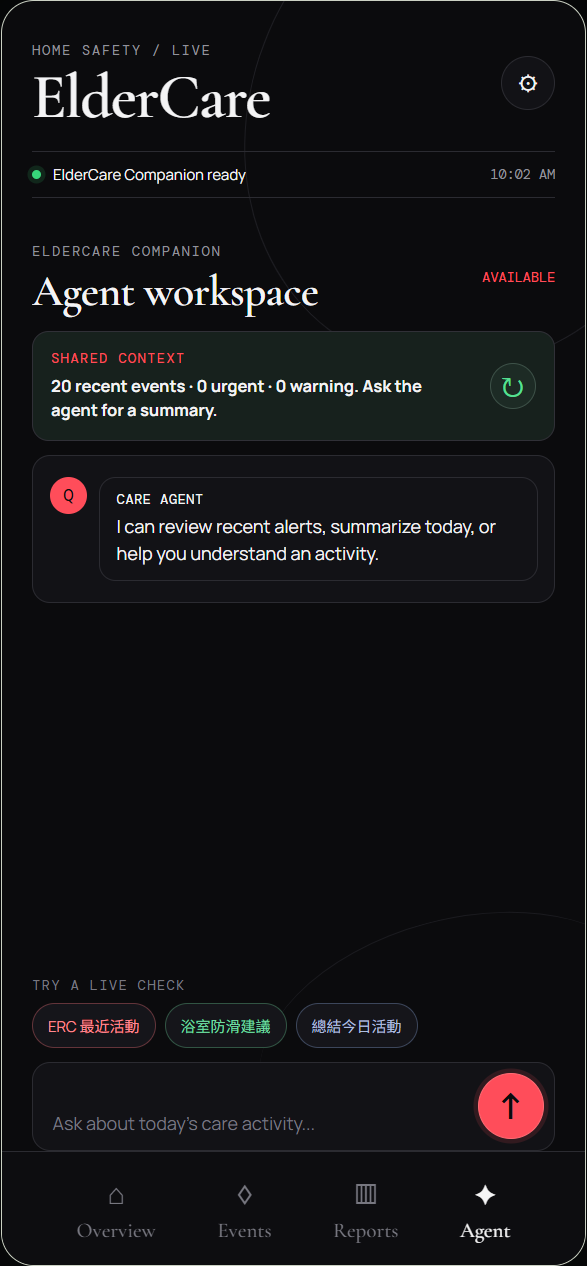
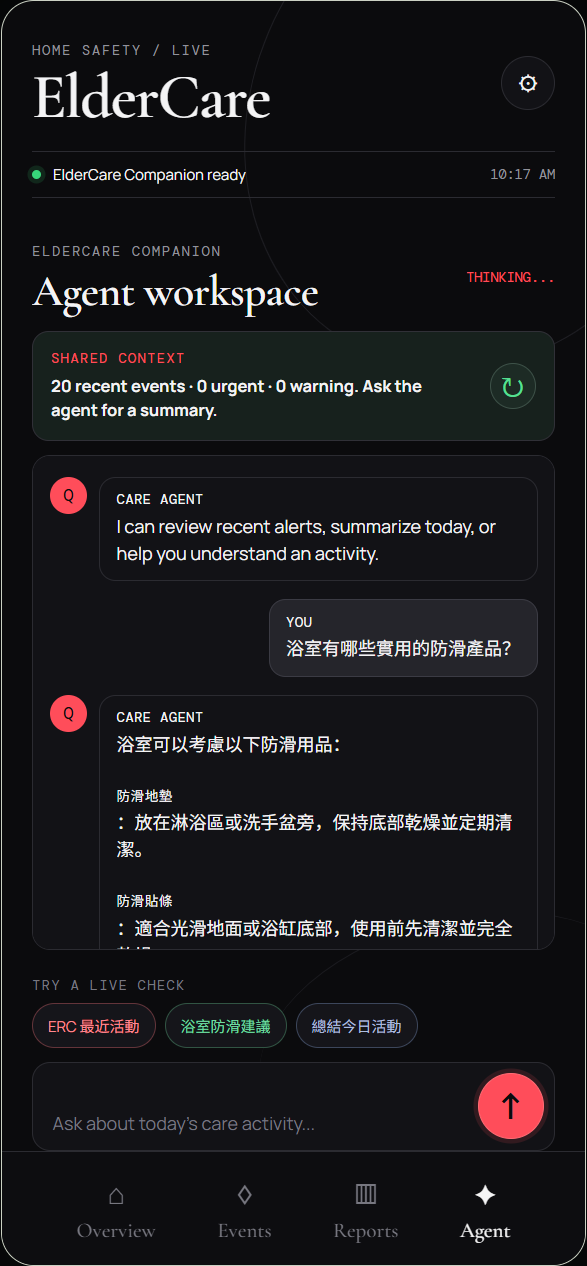
docs: sharpen agent-focused showcase narrative

diff --git a/README.md b/README.md
@@ -1,20 +1,18 @@
 # ElderCare
 
-ElderCare is an AI-assisted home safety and elder-care monitoring concept for older adults, family members, and caregivers.
+ElderCare is an AI-agent-assisted home safety and elder-care platform for older adults, family members, and caregivers.
 
-It combines privacy-preserving camera monitoring, activity recognition, daily reports, local care guidance, and official elder-care resource lookup in one shared care experience.
-
-> This repository is a product showcase and architecture overview. It intentionally does not include application source code, model weights, private data, credentials, or deployment secrets.
+Its Care Agent combines privacy-preserving camera monitoring, activity recognition, daily reports, local care guidance, and official elder-care resources in one shared care experience.
 
 ## Product Highlights
 
-- Privacy-aware camera monitoring with pose visualization
+- Camera monitoring with pose visualization only, keeping the visible person private while preserving movement context
 - Daily activity timeline for normal routines and safety events
-- Urgent and warning event classification
+- Instant notifications for urgent and warning events
 - Daily reports with activity category proportions
-- Care Agent for questions, summaries, and practical guidance
-- Local RAG knowledge retrieval for care information
-- Official Housing Society Elderly Resources Centre lookup
+- Care Agent for queries, summaries, and practical guidance
+- Local RAG knowledge retrieval for official care information
+- Official Housing Society Elderly Resources Centre information
 - Shared care-group concept for older adults, family, and caregivers
 
 ## Architecture
@@ -24,11 +22,11 @@ flowchart LR
     Camera[Camera stream] --> Privacy[Pose estimation\nprivacy overlay]
     Camera --> Activity[Activity recognition]
     Activity --> Records[(Daily activity records)]
-    Records --> Reports[Daily report\n23:59 finalization]
+    Records --> Reports[Completed daily report]
     Records --> Agent[Care Agent]
     User[Older adult / family / caregiver] --> Agent
     Agent --> RAG[Local care RAG]
-    Agent --> ERC[Official ERC web lookup]
+    Agent --> ERC[Official ERC resources]
     RAG --> Agent
     ERC --> Agent
     Agent --> Shared[Shared care group]
@@ -44,37 +42,22 @@ See [`docs/architecture.md`](docs/architecture.md) for the detailed data flow.
 
 ### Daily Reports
 
-<table><tr><td width="46%"><img src="docs/screenshots/reports.png" alt="ElderCare daily report"></td><td>The completed day's report is finalized at 23:59. It includes activity volume, category proportions, common activities, attention levels, and the recorded time range. Before the current day is complete, the previous completed report remains visible.</td></tr></table>
+<table><tr><td width="46%"><img src="docs/screenshots/reports.png" alt="ElderCare daily report"></td><td>The completed daily report includes activity volume, category proportions, common activities, attention levels, and the recorded time range. The product keeps the latest completed report visible between daily updates.</td></tr></table>
 
-### Care Agent and Knowledge Retrieval
+### Care Agent and Guidance
 
-<table><tr><td width="46%"><img src="docs/screenshots/agent.png" alt="ElderCare Care Agent"></td><td>The Care Agent answers practical care questions, summarizes activity, and combines local RAG knowledge with official Housing Society Elderly Resources Centre lookup when current resource information is needed.</td></tr></table>
+<table><tr><td width="46%"><img src="docs/screenshots/agent.png" alt="ElderCare Care Agent answering a care query"></td><td>The Care Agent is the central interaction layer. It answers care queries, summarizes activity, combines local RAG with official Housing Society Elderly Resources Centre information, and shows the source used for guidance.</td></tr></table>
 
 ### Shared Care Group
 
 <table><tr><td width="46%"><img src="docs/screenshots/settings-care-group.png" alt="ElderCare shared care group settings"></td><td>An older adult, family members, and caregivers can share one care circle. Group management provides a place for membership, access, shared updates, and family invitations.</td></tr></table>
 
-Screenshots are captured from the local product prototype with identifying data excluded.
+## Agent Safety
 
-## Privacy and Safety
+The Care Agent follows a safety boundary designed for family and caregiver use:
 
-- Camera privacy visualization is part of the product concept.
-- Real user names, addresses, camera URLs, service credentials, and databases are excluded from this repository.
-- The system is an assistive monitoring prototype and does not replace medical professionals or emergency services.
-- AI activity recognition and generated guidance may be inaccurate and should be reviewed by a responsible caregiver.
-
-## Repository Scope
-
-This public repository contains documentation and product materials only:
-
-- Product overview
-- Architecture documentation
-- Feature descriptions
-- Screenshot and demo asset index
-- Privacy and limitation notes
-
-It does not contain the private application's source code or runtime assets.
-
-## License
-
-See [`LICENSE`](LICENSE).
+- It does not reveal private personal information, credentials, camera URLs, or hidden system data.
+- It avoids medical diagnosis and medication changes.
+- It escalates emergencies such as falls, chest pain, breathing difficulty, loss of consciousness, suspected stroke, serious injury, or self-harm risk.
+- It uses retrieved care knowledge and official resources as supporting information, not as a replacement for professional care.
+- It states uncertainty instead of inventing unavailable addresses, schedules, or services.

diff --git a/docs/architecture.md b/docs/architecture.md
@@ -2,7 +2,7 @@
 
 ## System Context
 
-ElderCare is organized around a continuous camera pipeline, a local activity record store, and a conversational care layer.
+ElderCare is organized around a continuous camera pipeline, a local activity record store, and an Agent-centered care layer.
 
 ```mermaid
 flowchart TD
@@ -13,9 +13,9 @@ flowchart TD
     E --> F[Daily report]
     E --> G[Care context]
     G --> H[Care Agent]
-    I[Family or caregiver question] --> H
+    I[Family or caregiver query] --> H
     H --> J[Local RAG knowledge]
-    H --> K[Official ERC web tool]
+    H --> K[Official ERC information]
     H --> L[Shared care group]
 ```
 
@@ -25,10 +25,10 @@ flowchart TD
 2. Pose estimation creates a privacy-aware visual representation.
 3. Activity recognition classifies observed routines and safety-related events.
 4. Activity records are stored locally with timestamps and levels.
-5. At 23:59, the current day becomes a completed daily report.
+5. The reporting layer keeps the latest completed daily report available between daily updates.
 6. The Care Agent receives compact daily statistics rather than an unbounded raw event list.
 7. Local RAG supplies stable care guidance.
-8. The official ERC web tool supplies current Housing Society resource information when a question requires it.
+8. Official ERC resources supply current Housing Society information when a query requires it.
 9. Family members and caregivers access the shared care context through the product interface.
 
 ## Report Categories
@@ -43,9 +43,9 @@ The reporting layer groups events into:
 
 The UI presents category proportions as a donut chart and provides a readable daily summary.
 
-## Web Tool Boundary
+## Official Resource Boundary
 
-The ERC lookup is intentionally restricted to official Housing Society domains. It uses short-lived caching, request timeouts, and source URLs so that current information can be distinguished from local knowledge.
+ERC resource retrieval is intentionally restricted to official Housing Society domains. It uses short-lived caching, request timeouts, and source URLs so current official information can be distinguished from local knowledge.
 
 ## Resource Constraints
 

diff --git a/docs/features.md b/docs/features.md
@@ -25,7 +25,9 @@ Reports summarize the latest completed day and include:
 
 ## Care Agent
 
-The Agent can summarize daily activity, answer practical care questions, and use citations when information comes from local care knowledge or official ERC pages.
+The Agent is the primary interaction layer. It can summarize daily activity, answer practical care queries, and cite local care knowledge or official ERC pages.
+
+The Agent safety boundary avoids exposing private information, avoids unsupported medical claims, escalates emergencies, and states uncertainty when official information is unavailable.
 
 ## Shared Care Group
 

diff --git a/docs/screenshots/README.md b/docs/screenshots/README.md
@@ -1,6 +1,6 @@
 # Screenshots
 
-These screenshots are captured from the local ElderCare product prototype.
+These screenshots show the ElderCare product experience.
 
 Recommended files:
 
@@ -10,6 +10,3 @@ Recommended files:
 - `agent.png` - Care Agent conversation
 - `settings-care-group.png` - shared family care-group settings
 
-The screenshots show the product UI only. No application source code, model files, credentials, or database records are included in this repository.
-
-Before adding screenshots, remove faces, names, addresses, camera URLs, API endpoints, tokens, and personal activity records.
